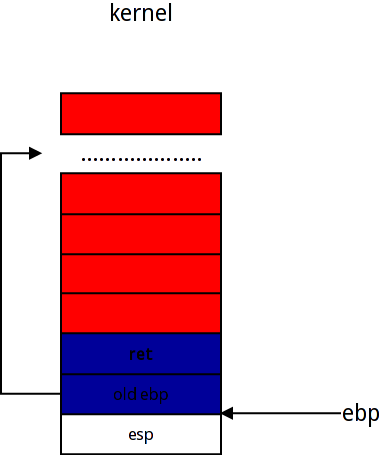
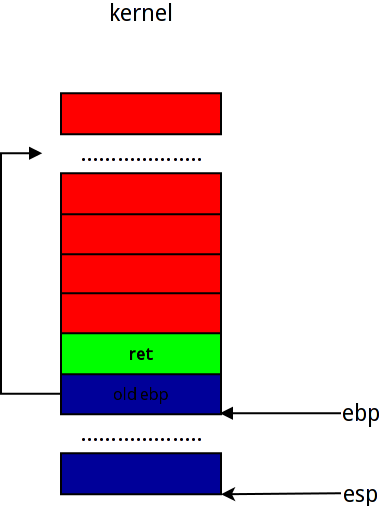
sync

diff --git a/secondWeekend/processSwitch.md b/secondWeekend/processSwitch.md
@@ -7,7 +7,7 @@
 *****
 
 ##前言
-++现代操作系统以线程为基本调度单位，分为进程内线程调度和进程间线程调度，同时，一个线程对应一个运行栈，所以**Linux**进程调度过程中对栈的操作十分频繁，切换过程中最为重要的就是正确的切换到对应线程的运行栈并且把EIP指向正确位置，接下来将通过本次实验详细解释进程调度过程中运行栈的变化情况。++
+进程调度中，最为重要的就是对上下文环境的保存和运行栈的切换，甚至我们可以把进程看成就是一个运行栈[** 现代操作系统通常以线程为基本调度单位，根据具体情况又可以分为内核级的轻量级进程和用户级线程，其调度方式有一定区别，但是其中都要对运行栈进行切换操作**]，接下来将通过本次实验详细解释进程调度过程中运行栈的变化情况。
 
 ##实验准备
 **写上这段是因为按照说明进行的话并不能看到教学视频上的效果，只能看到时间中断处理程序在执行**
@@ -54,7 +54,7 @@
 ![process 3 to 0](./pic/4.png)
 
 ##代码分析
-** 下面我们假设一共有0, 1, 2三个进程，在此基础上对进程调度中运行栈的变化进行说明**
+** 下面我们假设一共有0, 1, 两个进程，在此基础上对进程调度中运行栈的变化进行说明**
 ** **
 *****
 
@@ -120,18 +120,16 @@
 *****
 
 
-** 注意，下面如果无特殊说明，将使用伪汇编指令，即把内联汇编中的%1，%2等对应标号做替换，以方便理解**
-
 + 当前运行栈情况如图：
 
 ![At Start](./pic/stack_status/pid0_0.png)
 
-这里的ret和old ebp 是my_start_kernel的Prolog操作，ret是my_start_kernel的返回地址，old ebp是调用my_start_kernel函数前的栈基址。
+这里的ret和old ebp 是my_start_kernel的Prolog操作，ret是my_start_kernel的返回地址，old ebp是调用my_start_kernel函数前的栈基址。之所以在old ebp之后留有空隙是因为esp到ebp之间还要有局部变量，也可能会有内存对齐空出的空间，所以当前栈顶距[esp]离当前栈基址[ebp]会有一定距离。
 
 ** 这里里需要注意的是，如果内核不是通过call指令调用的my_start_kernel的话，可能内存中没有ret这条，因为即将启动的0号进程不会退出，所以就算没有ret也没有影响**
 
 
-	movl task[pid].thread.sp, %%esp
+	"movl %1,%%esp\n\t" 	/* set task[pid].thread.sp to esp */
 
 本条指令把0号进程当前的栈顶地址放入esp，，此条指令执行后，我们可以认为栈发生了半切换，之所以没有说栈完全切换，因为这里并没有同时更改ebp的值。同时，因为此时0号进程并未运行，所以栈空，esp指向stack[KERNEL_STACK_SIZE - 1]，如图：
 
@@ -145,8 +143,130 @@
 
 	pushl task[pid].thread.sp
 
-本条指令把当前esp的值再次push入新栈
+本条指令把当前esp的值再次push入新栈，这里的这个操作有问题，因为并没有保存定位my_start_kernel函数运行栈的ebp值，但是因为mykernel把第0号进程作为类似于系统的** 空闲处理进程[idle]**进程，此进程是个无限循环，并不会返回，所以不会触发函数返回问题。
+
+*****
+###此处的一点思考
+
+如果假设0号进程会返回，即我们假设OS是单任务系统，每次运行完一个进程后就回到一个输入界面等待用户输入下一个任务，则可以按照如下思路修改：
+```
+asm volatile(
+	 "pushl %%eax\n\t" /*save eax because we will change it*/
+     "movl %%esp, %%eax\n\t" /* save current esp*/
+     "movl %1,%%esp\n\t" /* set task[pid].thread.sp to esp */
+     "pushl %%eax\n\t" /*store the old esp in the new stack*/
+     "pushl %%ebp\n\t" /* store the old ebp in the new stack*/
+     "call %0" /* start process*/
+     "popl %%ebp\n\t" /* when return first restore ebp*/
+     "popl %%esp\n\t" /* then restore the esp*/
+     "popl %%eax\n\t" /*at last restore the eax*/
+     :
+     : "c" (task[pid].thread.ip),"d" (task[pid].thread.sp)	/* input c or d mean %ecx/%edx*/
+);
+```
+** 大概思路就是要能保证当前的栈环境能完整恢复，这里比较绕的是我们需要先把当前esp保存到eax里，以为内下一步会切换栈顶，破坏esp内的内容，所以要提前保存，在切换到新栈顶后，我们要先把eax，即old esp入栈，然后再把old ebp入栈，如果反过来入栈，则出栈时会因为先修改了esp导致栈顶先切换而导致无法弹出真正的old ebp。**经测试修改过的代码可以正确运行。
+
+*****
 
 
-   "pushl %0\n\t" 	        /* push task[pid].thread.ip */
-    	"ret\n\t" 	            /* pop task[pid].thread.ip to eip */
+** 下面继续接着mykernel提供的代码分析**
+
+	"pushl %1\n\t" 	        /* push ebp */
+
+按照教程里说的，这里把当前0号进程栈顶作为新的esp入栈，但是其实从上面的分析可以看出来这里是有问题的，所以这里不再解释这句的作用
+
+   	"pushl %0\n\t" 	        /* push task[pid].thread.ip */
+
+把0号进程的入口函数，即my_process()方法的入口地址入栈，此时栈内情况如下图：
+![before ret pid 0](./pic/stack_status/pid0_2.png)
+
+ 	"ret\n\t" 	            /* pop task[pid].thread.ip to eip */
+
+执行ret，从栈中弹出刚刚放入的my_process()入口地址，开始运行0号进程。
+
+接下来0号进程将开始运行，同时我们提供的时钟中断处理函数也已经在运行中，按照mykernel提供的代码，当my_process()方法内的局部变量i的值为10000000时，将会检查是否需要调度，这里我们假设此时我们时钟中断函数已经设置了调度标志，则将调用sand_priority()方法给当前所有进程[在我们这里是0,1两个进程]重新分配优先级，然后调用my_schedule()方法进行进程调度。
+
+这里为了能够看到栈的切换，我们假设进入调度函数后，会进行进程0到进程1的切换。
+由于当前1号进程的pid[1].state是 "-1"，所以将会执行else分支的内容，下面对else分支内的内容进行分析：
+首先，代码如下：
+```
+......
+
+    else
+    {
+        next->state = 0;
+        my_current_task = next;
+    	printk(KERN_NOTICE "switch from %d process to %d process\n \
+        >>>process %d running!!!<<<\n\n\n",prev->pid,next->pid,next->pid);
+
+     /* switch to new process */
+     asm volatile(	
+         "pushl %%ebp\n\t" /* save ebp */
+         "movl %%esp,%0\n\t" /* save esp */
+         "movl %2,%%esp\n\t" /* restore esp */
+         "movl %2,%%ebp\n\t" /* restore ebp */
+         "movl $1f,%1\n\t" /* save eip */	
+         "pushl %3\n\t"
+         "ret\n\t" /* restore eip */
+         : "=m" (prev->thread.sp),"=m" (prev->thread.ip)
+         : "m" (next->thread.sp),"m" (next->thread.ip)
+     );
+    }
+
+......
+```
+进入else分支后首先是把1号进程的state改为0,即runnable[可运行]，然后修改当前运行进程指针令其指向1号进程的PCB结构体，执行完后开始执行内联汇编语句，进行进程切换操作
+此时栈情况如图：
+
+![pid 0 my_schedule](./pic/stack_status/pid0_3.png)
+
+这里之所以有省略号同样是因为函数内可能有局部变量或者内存对齐等原因，比较重要的是我画出了从0号进程开始运行my_process到调用my_schedule()时两个函数的Prolog,即
+```
+pushl %ebp
+movl %esp, %ebp
+```
+这两句执行后的结果，因为这里形成的ebp硬链表对于理解栈的切换十分重要。
++ 当进入my_process后，Prolog在栈中放入指向kernel[即my_start_kernel]栈存放old ebp的当前ebp值，然后修改ebp指向old ebp pushed by my_process
++ 进入my_schedule后，prolog在栈中放入指向my old ebp pushed by my_process的当前ebp值，然后修改ebp指向 old ebp pushed by my_schedule
+** 如果0号和1号进程是可以返回的，那么ebp将顺着这个硬链表回溯到my_start_kernel运行时的状态。**
+
+下面继续追踪紧接着的汇编代码运行后的栈变化：
+```
+"pushl %%ebp\n\t" /* save ebp */
+"movl %%esp,%0\n\t" /* save esp */
+````
+首先在0号进程栈中保存当前的ebp，然后将此时的esp值存入task[0].thread.sp，即保存0号进程的运行栈现场。此时栈中情况如图：
+
+![pid 0 stack when save env](./pic/stack_status/pid0_4.png)
+
+```
+"movl %2,%%esp\n\t" /* restore esp */
+"movl %2,%%ebp\n\t" /* restore ebp */
+```
++ 开始进行栈切换，即从task[0].stack，切换到task[1].stack，和切换到0号进程相同，修改esp指向task[1].stack[KERNEL_STACK_SIZE - 1]
++ 同样，由于此时1号进程并没有运行，所以ebp作为栈基址，指向地址和esp相同
+此时栈情况如下图：
+
+![pid 1 stack switch](./pic/stack_status/pid1_0.png)
+
+	"movl $1f,%1\n\t" /* save eip */
+
+这里的$1f是个“Magic Number”，其效果是把一个指向if分支中的如下指令所在内存
+```
+"1:\t" /* next process start here */
+"popl %%ebp\n\t"
+```
+的值送入task[0].thread.ip，其效果是当下一次进程切换回0号进程时，将会从这里继续执行。
+接下来的
+
+	"pushl %3\n\t"
+
+把1号进程的进程入口地址** [这里以因为是1号进程第一次运行，所以就是my_process()的入口地址]**入栈。此时栈中情况如图：
+
+![pid 1 stack when start proc](./pic/stack_status/pid1_1.png)
+
+	"ret\n\t" /* restore eip */
+从当前栈task[1].stack中弹出刚刚送入的1号进程的入口地址，启动1号进程，进入1号进程后，同样有如下动作，当1号进程的my_process()方法内的局部变量i满足if语句条件后，将检查是否需要调度，这里我们同样假设调度标志已经为真，且经过sand_priority()方法后下一个将被运行的进程为0号进程，则进入my_schedule()开始调度。
+此时运行栈情况如图：
+
+![pid 1 stack when  schedule](./pic/stack_status/pid1_2.png)
